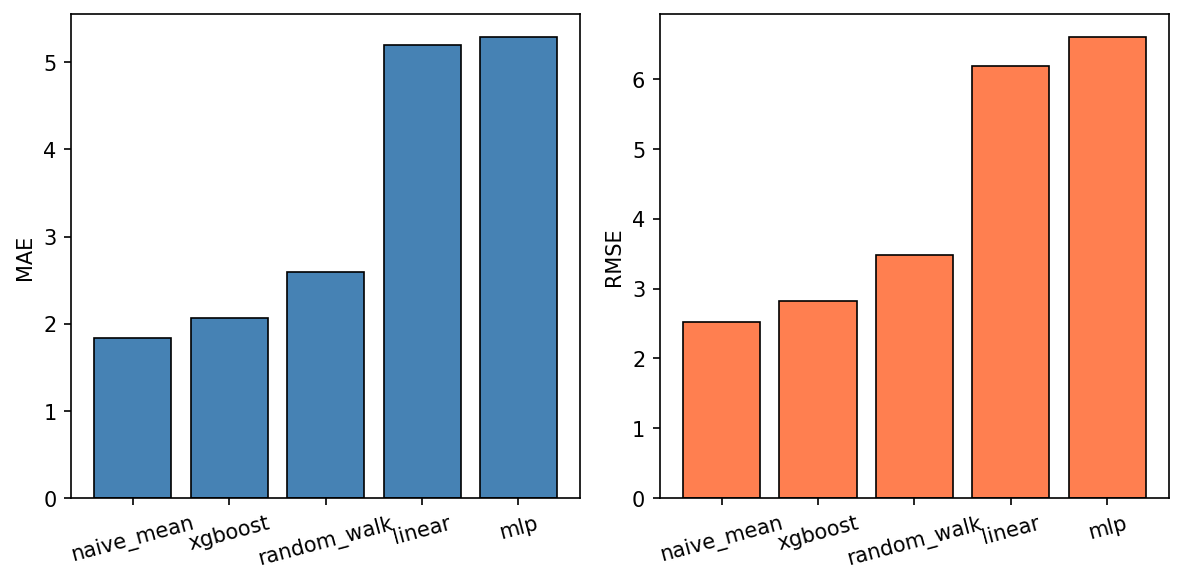
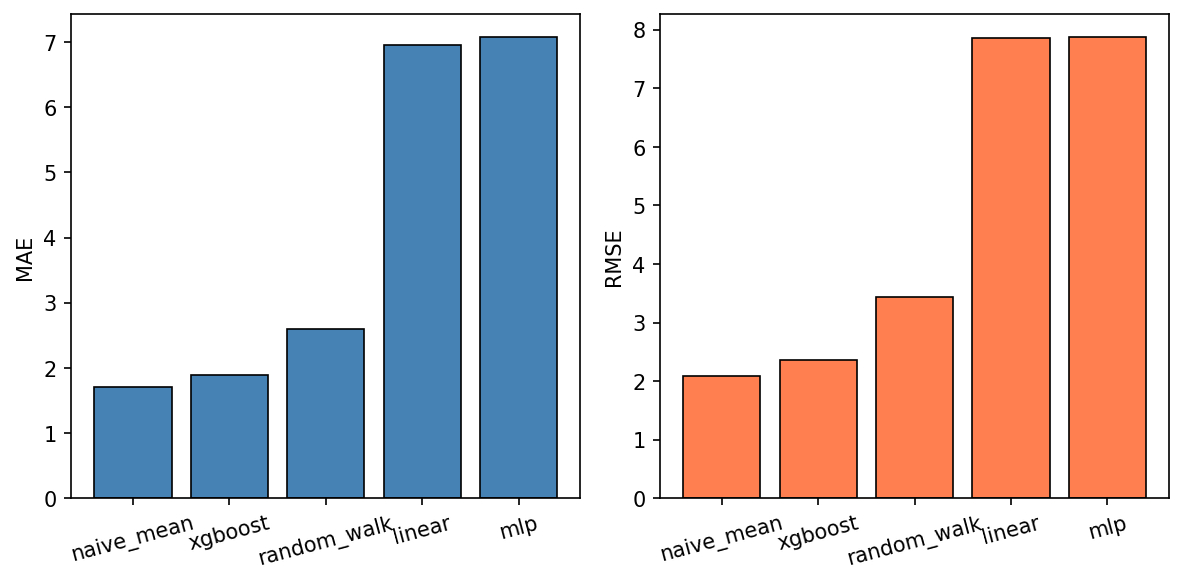
fix: exclude unemployment_rate from modelling pipeline to prevent data leakage
- Add MODEL_EXCLUDED_COLS in src/data_utils.py to drop unemployment_rate
  before feature engineering (contemporaneous with GDP → leakage risk)
- Remove bfill() to prevent future values leaking into earlier rows
- Update docs: README, Reproducibility.md, data_dictionary.md, INDICATORS.md
  all note the exclusion and corrected feature count (11 instead of 13)
- Updated CV results reflect the new feature set

diff --git a/src/data_utils.py b/src/data_utils.py
@@ -9,6 +9,13 @@ import pandas as pd
 from .feature_engineering import build_full_features
 
 
+# Keep the raw processed panel intact, but exclude variables with insufficient
+# early-year coverage from the shared modelling pipeline. This avoids
+# time-leaking backfills while preserving a usable sample size for the final
+# forecasting comparison.
+MODEL_EXCLUDED_COLS = {"unemployment_rate"}
+
+
 def get_project_root() -> Path:
     """Return the project root directory (one level above ``src/``)."""
     return Path(__file__).resolve().parents[1]
@@ -35,6 +42,9 @@ def load_and_prepare(target_col: str = "gdp_growth") -> pd.DataFrame:
     """
     df = load_processed_panel()
     df = df.sort_values("year").reset_index(drop=True)
-    df = df.ffill().bfill()
+    df = df.drop(columns=[c for c in MODEL_EXCLUDED_COLS if c in df.columns])
+    # Forward-fill preserves time ordering; avoid backward-fill here because it
+    # would leak future observations into earlier rows before CV splitting.
+    df = df.ffill()
     df = build_full_features(df, target_col=target_col)
     return df

diff --git a/docs/Reproducibility.md b/docs/Reproducibility.md
@@ -2,6 +2,10 @@
 
 This document describes how to reproduce the project's data, model training, evaluation, and interpretation outputs (PDD §4.6). Follow the steps below in order.
 
+Important scope note: the codebase retains two extra baseline benchmarks, `naive_mean` and `random_walk`, inside the main comparison pipeline. These are useful for internal benchmarking and reproducibility, but the **final dissertation/report compares three model families only: Ridge, MLP, and XGBoost**.
+
+Data leakage note: `unemployment_rate` is collected and stored in the raw panel (`panel_yearly.csv`) but **excluded from the modelling feature set** at load time (see `MODEL_EXCLUDED_COLS` in `src/data_utils.py`). Unemployment is contemporaneous with GDP growth and would introduce data leakage if used as a predictor. Additionally, only forward-fill (`ffill`) is applied to missing values — backward-fill (`bfill`) was removed to prevent future information leaking into earlier rows.
+
 ---
 
 ## 1. Environment
@@ -36,15 +40,21 @@ Run these in sequence from the project root.
 |------|---------|---------|
 | 1 | `python -m src.fetch_real_data` | Download raw data from Eurostat/ECB into `data/raw/`. |
 | 2 | `python -m src.build_dataset` | Build the yearly EA panel → `data/processed/panel_yearly.csv`. |
-| 3 | `python -m src.main_results` | Run time-series CV across all models → `results/main_cv_results.csv` and `.png`. |
-| 4 | `python -m src.run_interpretation linear` | Generate SHAP, PDP, permutation importance, local explanation for the linear (Ridge) model → `data/processed/figures/`. |
-| 5 | `python -m src.run_interpretation xgboost` | Same interpretation outputs for XGBoost. |
-| 6 | `python -m src.build_country_panel` | Build country-level GDP panel → `data/processed/panel_country_yearly.csv`. |
-| 7 | `python -m src.country_map_dashboard` | Generate interactive choropleth map → `results/country_gdp_growth_map.html`. |
-| 8 (optional) | `python -m src.automl_experiments` | Run FLAML AutoML holdout baseline → `results/robustness_automl_holdout.csv`. |
+| 3 | `python -m src.main_results` | Run time-series CV across all code-level models/baselines → `results/main_cv_results.csv` and `.png`. |
+| 4 | `python -m src.run_interpretation linear` | Generate SHAP, PDP, permutation importance, local explanation for Ridge → `data/processed/figures/`. |
+| 5 | `python -m src.run_interpretation mlp` | Same interpretation outputs for MLP. |
+| 6 | `python -m src.run_interpretation xgboost` | Same interpretation outputs for XGBoost. |
+| 7 | `python -m src.build_country_panel` | Build country-level GDP panel → `data/processed/panel_country_yearly.csv`. |
+| 8 | `python -m src.country_map_dashboard` | Generate interactive choropleth map → `results/country_gdp_growth_map.html`. |
+| 9 (optional) | `python -m src.automl_experiments` | Run FLAML AutoML holdout baseline → `results/robustness_automl_holdout.csv`. |
 
-**Minimal reproduction (if raw data already fetched):**
-Steps 2 → 3 → 4 → 5 are sufficient to reproduce the main results and interpretation figures.
+**Minimal reproduction (report-facing, if raw data already fetched):**
+Steps 2 → 3 → 4 → 5 → 6 are sufficient to reproduce the main results and interpretation figures used in the final report.
+
+**What Step 3 includes in code:**
+- `naive_mean`: predicts the training-set mean for every test observation.
+- `random_walk`: predicts each test observation using the previous year's actual GDP growth.
+- Ridge, MLP, XGBoost: the three model families discussed in the dissertation.
 
 ---
 
@@ -54,9 +64,9 @@ Steps 2 → 3 → 4 → 5 are sufficient to reproduce the main results and inter
 
 | File | Content |
 |------|---------|
-| `main_cv_results.csv` | Model-level MAE, RMSE, R² (mean ± std) from time-series CV (includes naive mean baseline). |
-| `main_cv_per_fold.csv` | Per-fold metrics for every model and CV split (matches report Table A.1). |
-| `main_cv_results.png` | Bar chart of MAE/RMSE across models. |
+| `main_cv_results.csv` | Model-level MAE, RMSE, R² (mean ± std) from time-series CV. In code this includes `naive_mean` and `random_walk` as extra baselines. |
+| `main_cv_per_fold.csv` | Per-fold metrics for every model and CV split. In code this includes the two extra baselines; Appendix A in the report keeps only Ridge, MLP, and XGBoost. |
+| `main_cv_results.png` | Bar chart of MAE/RMSE across all code-level models/baselines. |
 | `robustness_automl_holdout.csv` | AutoML holdout MAE/RMSE (optional). |
 | `country_gdp_growth_map.html` | Interactive choropleth of country-level GDP growth. |
 
@@ -73,7 +83,7 @@ Steps 2 → 3 → 4 → 5 are sufficient to reproduce the main results and inter
 
 | File | Content |
 |------|---------|
-| `panel_yearly.csv` | Main yearly EA panel (6 indicators). |
+| `panel_yearly.csv` | Main yearly EA panel (6 indicators; used to create the final feature set with lags/changes and next-step target shift). |
 | `panel_country_yearly.csv` | Country-level GDP panel (11 EA countries). |
 | `indicator_list.csv` | Indicator metadata. |
 
@@ -93,5 +103,6 @@ pytest tests/ -v
 
 - Variable definitions and raw file formats are in [data_dictionary.md](data_dictionary.md).
 - Indicator sources and codes are in `INDICATORS.md` and `src/indicators.py`.
-- Feature engineering (lags, first differences) is in `src/feature_engineering.py`.
+- Feature engineering (lags, first differences, and next-step target shift) is in `src/feature_engineering.py`.
 - The `year` column is retained in the dataset but **excluded from model features** in both `compare_models.py` and `run_interpretation.py`.
+- `main_results` is the reproducibility entry point for the full code-level comparison; the final report filters that comparison down to Ridge, MLP, and XGBoost for presentation consistency.

diff --git a/README.md b/README.md
@@ -43,7 +43,7 @@ To build the yearly EA dataset into `data/processed`, run:
 python -m src.build_dataset
 ```
 
-**Model comparison (with visualisation):** To compare all models (Naive Mean, Ridge, MLP, XGBoost, Random Walk) and get a bar-chart of MAE/RMSE:
+**Model comparison (with visualisation):** To compare all code-level baselines and models (`naive_mean`, Ridge, MLP, XGBoost, `random_walk`) and get a bar-chart of MAE/RMSE:
 
 ```
 python -m src.build_dataset   # if not already done
@@ -71,9 +71,11 @@ python -m src.main_results
 
 This writes:
 
-- `results/main_cv_results.csv`: model-level MAE, RMSE, R² (mean ± std) from time-aware cross-validation (5 models).
+- `results/main_cv_results.csv`: model-level MAE, RMSE, R² (mean ± std) from time-aware cross-validation. In code, this includes the extra baselines `naive_mean` and `random_walk` alongside Ridge, MLP, and XGBoost.
 - `results/main_cv_per_fold.csv`: per-fold metrics for every model and CV split.
 - `results/main_cv_results.png`: bar-chart visualisation of MAE/RMSE across models.
+
+For the **final dissertation/report**, the primary comparison is restricted to **three model families: Ridge, MLP, and XGBoost**. The extra baselines `naive_mean` and `random_walk` are retained in code as internal reference benchmarks and reproducibility checks, but they are not part of the final report tables/figures.
 
 To generate the **AutoML robustness result** (single time-based holdout, last 20% as test):
 
@@ -91,11 +93,11 @@ time-series CV result and a complementary robustness check respectively.
 
 ## Interpretability (XAI, PDD §4.5)
 
-After building the dataset and (optionally) comparing models, run SHAP summary, PDP, and local explanations for a chosen model:
+After building the dataset and (optionally) comparing models, run SHAP summary, PDP, permutation importance, and local explanations for a chosen report model:
 
 ```
 python -m src.build_dataset
-python -m src.run_interpretation linear    # or: mlp, xgboost
+    python -m src.run_interpretation linear    # or: mlp, xgboost
 ```
 
 Outputs are saved under `data/processed/figures/` (SHAP summary plot, PDPs for first two features, one local explanation). Use the `interpretation` module in code: `shap_summary()`, `pdp_plot()`, `local_explanation()`.
@@ -124,9 +126,10 @@ compared with the main CV table in `results/main_cv_results.csv`.
 
 ## Current progress
 
-- **Data ingestion:** 6 macroeconomic indicators from Eurostat and ECB (`src/indicators.py`, `INDICATORS.md`).
+- **Data ingestion:** 6 macroeconomic indicators from Eurostat and ECB (`src/indicators.py`, `INDICATORS.md`). Note: `unemployment_rate` is fetched and stored in the raw panel but **excluded from the modelling pipeline** (`MODEL_EXCLUDED_COLS` in `src/data_utils.py`) to avoid contemporaneous data leakage.
 - **Dataset build:** Yearly euro-area panel with lag and change features (`python -m src.build_dataset`).
-- **Model comparison:** Naive Mean, Ridge, MLP, XGBoost, and Random Walk baselines with 3-fold time-series CV; MAE, RMSE, R² (`python -m src.main_results`).
+- **Model comparison (code-level):** `naive_mean`, Ridge, MLP, XGBoost, and `random_walk` with 3-fold time-series CV; MAE, RMSE, R² (`python -m src.main_results`).
+- **Model comparison (report-facing):** the final dissertation discusses Ridge, MLP, and XGBoost only. The two extra baselines are retained in code for benchmark/reference purposes.
 - **Interpretability (XAI):** SHAP summary, PDP, permutation importance, and local explanations (`python -m src.run_interpretation <model>`).
 - **Country-level visualisation:** Country GDP growth panel for 11 euro-area countries plus selected non-EU comparator countries (`UK`, `CH`, `NO`, `IS`) when available from Eurostat, with an interactive Plotly choropleth map and year slider:
   - `python -m src.build_country_panel` → `data/processed/panel_country_yearly.csv`

diff --git a/docs/data_dictionary.md b/docs/data_dictionary.md
@@ -19,7 +19,8 @@ This is the main dataset used for training and evaluation. One row per year; geo
 | `gov_debt_gdp` | float | Percent of GDP (%) | General government gross debt as a percentage of GDP, euro area. | Eurostat `tipsgo10`, filtered to EA20. |
 
 - **Time coverage:** Depends on data availability; typically from the late 1990s / 2000 to the latest full year. Exact range is in the file.
-- **Missing values:** Rows with missing `year` or target/source values are dropped per indicator during build. The merged panel uses a **left join** on `year` (anchored to GDP years), so indicators with shorter coverage will have NaN in early years. These are forward/backward-filled (`ffill().bfill()`) by the modelling pipeline before feature engineering.
+- **Missing values:** Rows with missing `year` or target/source values are dropped per indicator during build. The merged panel uses a **left join** on `year` (anchored to GDP years), so indicators with shorter coverage will have NaN in early years. These are **forward-filled only** (`ffill`) by the modelling pipeline before feature engineering — backward-fill was removed to prevent future values leaking into earlier rows.
+- **Excluded from modelling:** `unemployment_rate` is retained in the raw panel for reference but **dropped before modelling** (`MODEL_EXCLUDED_COLS` in `src/data_utils.py`) because it is contemporaneous with GDP growth and would introduce data leakage.
 - **Monthly-to-annual aggregation:** ECB monthly series (`usd_eur_rate`, `hicp_inflation`, `short_term_rate`) are aggregated to annual by simple arithmetic mean of all months in each calendar year. Eurostat series are published as annual.
 
 ---
@@ -34,7 +35,7 @@ The pipeline applies `build_full_features()` (see `src/feature_engineering.py`) 
 |--------|-----------|
 | `usd_eur_rate_lag1` | USD/EUR exchange rate shifted by 1 year. |
 | `hicp_inflation_lag1` | HICP inflation shifted by 1 year. |
-| `unemployment_rate_lag1` | Unemployment rate shifted by 1 year. |
+| `unemployment_rate_lag1` | Unemployment rate shifted by 1 year. ⚠ Only present if `unemployment_rate` is not excluded (see `MODEL_EXCLUDED_COLS`). |
 | `short_term_rate_lag1` | Short-term interest rate shifted by 1 year. |
 | `gov_debt_gdp_lag1` | Government debt-to-GDP shifted by 1 year. |
 
@@ -47,7 +48,7 @@ The pipeline applies `build_full_features()` (see `src/feature_engineering.py`) 
 | `gov_debt_gdp_chg1` | First difference: `gov_debt_gdp(t) − gov_debt_gdp(t−1)`. |
 
 - **Dropped rows:** After adding lags and differences, the first row(s) with NaN are dropped (`.dropna()`), so the modelling sample starts from the second year onward.
-- **Total model features:** 5 raw levels + 5 lags + 3 changes = **13 features** (year and gdp_growth excluded).
+- **Total model features (current):** With `unemployment_rate` excluded, the modelling pipeline uses 4 raw levels + 4 lags + 3 changes = **11 features** (year and gdp_growth excluded). If `MODEL_EXCLUDED_COLS` is empty, it would be 5 raw levels + 5 lags + 3 changes = 13 features.
 
 ---
 

diff --git a/INDICATORS.md b/INDICATORS.md
@@ -10,7 +10,7 @@ Edit `src/indicators.py` to add more indicators.
 | gdp_growth | Eurostat | `tec00115` | Annual | Real GDP growth rate (percent change). |
 | usd_eur_rate | ECB | `EXR/M.USD.EUR.SP00.A` | Monthly | ECB reference exchange rate, USD/EUR. |
 | hicp_inflation | ECB | `ICP/M.U2.N.000000.4.ANR` | Monthly | HICP inflation, overall index, annual rate of change, euro area (ECB). |
-| unemployment_rate | Eurostat | `une_rt_a` | Annual | Unemployment rate (% of active population, PC_ACT), euro area. |
+| unemployment_rate | Eurostat | `une_rt_a` | Annual | Unemployment rate (% of active population, PC_ACT), euro area. **Excluded from modelling pipeline** (contemporaneous with GDP → data leakage risk); retained in raw panel for reference. |
 | short_term_rate | ECB | `FM/M.U2.EUR.RT.MM.EURIBOR3MD_.HSTA` | Monthly | Short-term money market interest rate (3-month Euribor). |
 | gov_debt_gdp | Eurostat | `tipsgo10` | Annual | General government gross debt as a percentage of GDP, euro area. |
 
